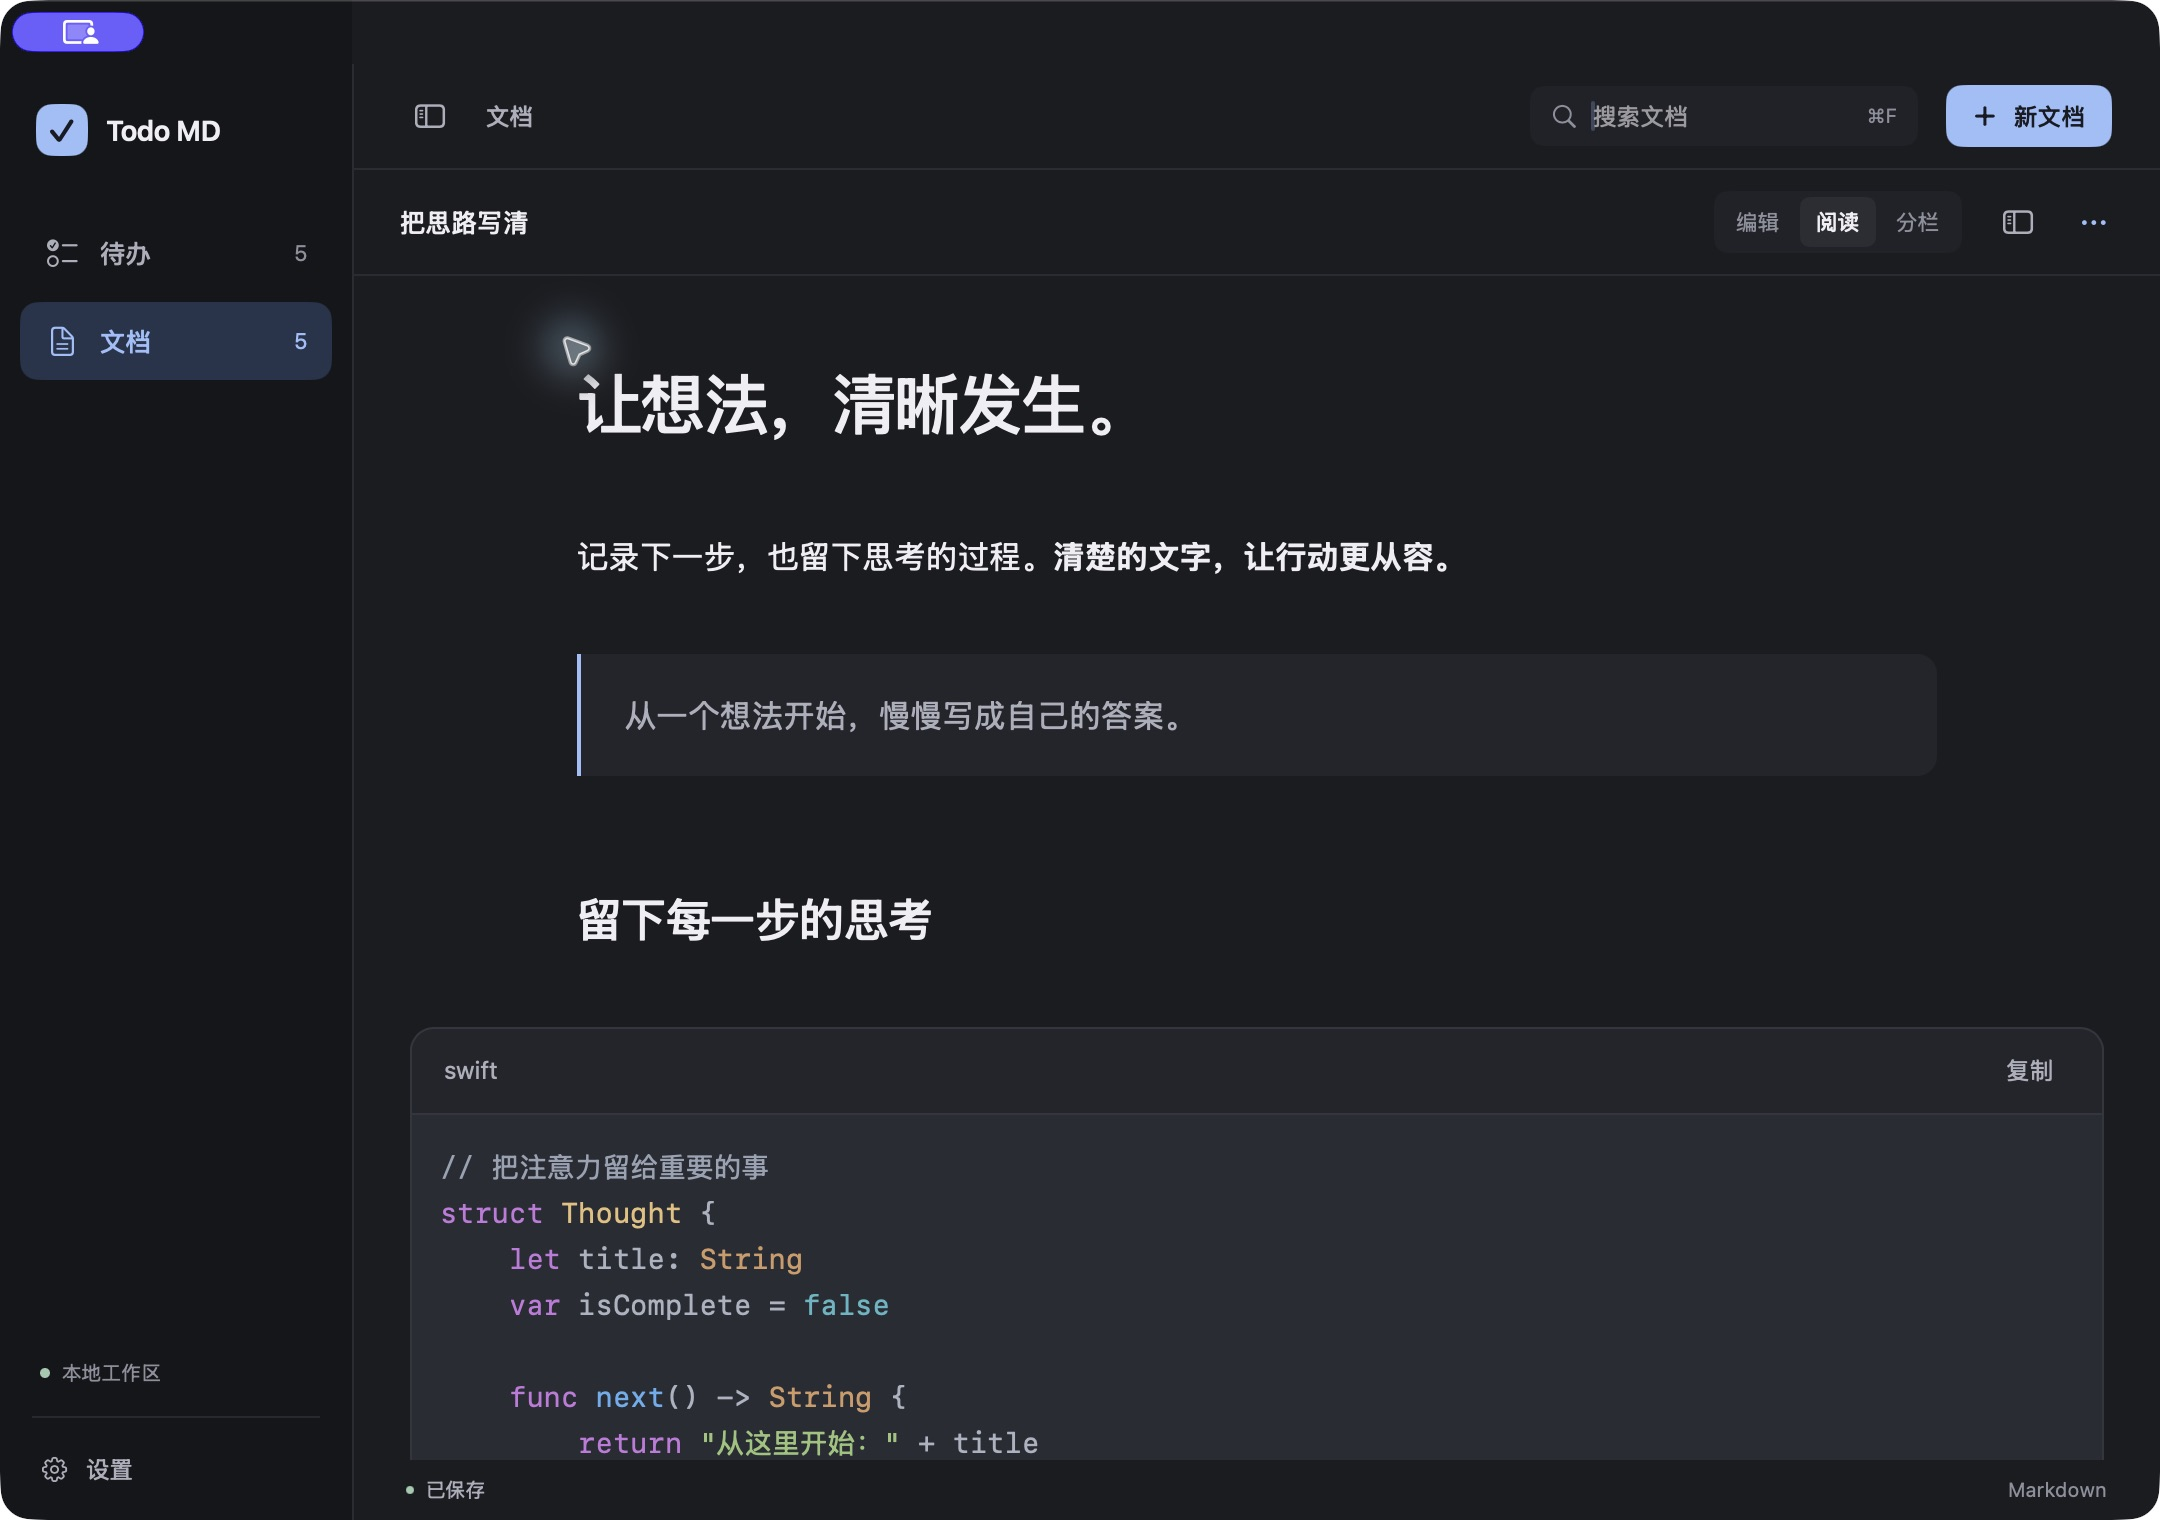
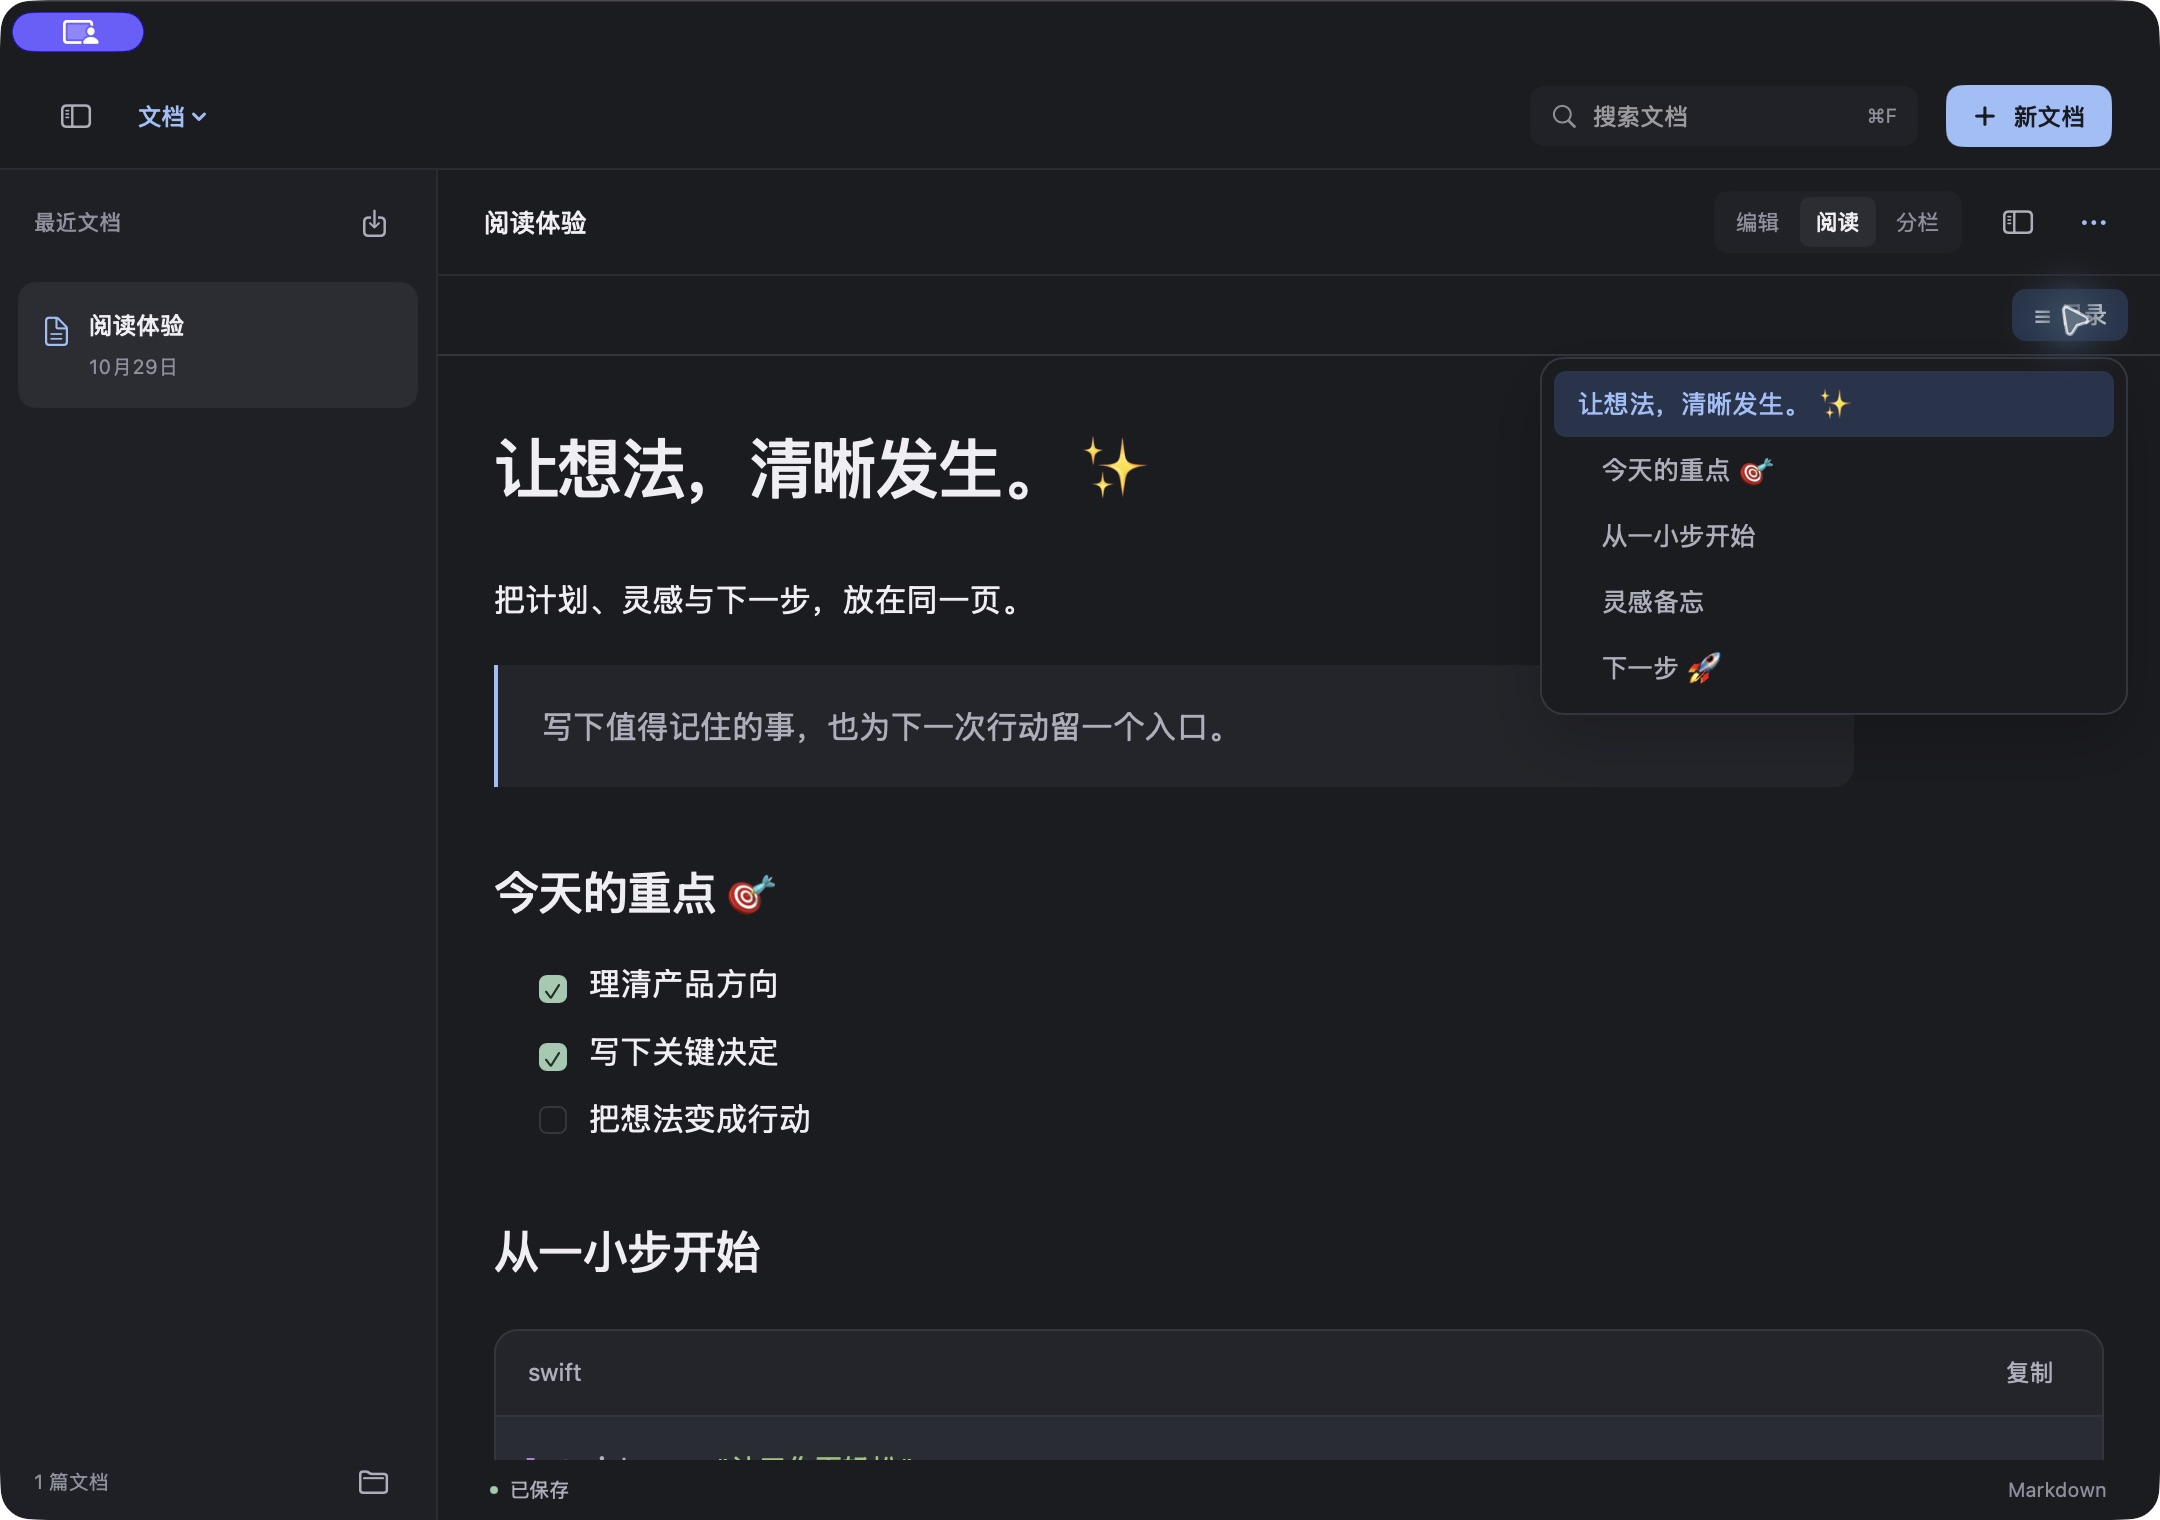
Publish Todo MD 1.2.0 reading navigation and media update

diff --git a/index.html b/index.html
@@ -15,8 +15,8 @@
   <link rel="canonical" href="https://henry-insomniac.github.io/todo-md/">
   <link rel="icon" type="image/png" href="assets/app-icon.png">
   <link rel="apple-touch-icon" href="assets/app-icon.png">
-  <link rel="stylesheet" href="style.css?v=111">
-  <script src="site.js?v=111" defer></script>
+  <link rel="stylesheet" href="style.css?v=120">
+  <script src="site.js?v=120" defer></script>
 </head>
 <body>
   <a class="skip-link" href="#main">跳转到正文</a>
@@ -29,13 +29,13 @@
     <section class="hero wrap" aria-labelledby="hero-title">
       <h1 id="hero-title">把事情记下，<br><span>把思路写清。</span></h1>
       <p class="hero-description">待办、Markdown 与轻量进度，一个 Mac 应用。</p>
-      <div class="hero-actions"><a class="button button-primary" href="https://github.com/henry-insomniac/todo-md/releases/download/v1.1.1/Todo-MD-1.1.1.dmg"><svg viewBox="0 0 24 24" width="18" height="18" fill="none" aria-hidden="true"><path d="M12 3v12m-4-4 4 4 4-4M5 16v4h14v-4" stroke="currentColor" stroke-width="1.7" stroke-linecap="round" stroke-linejoin="round"/></svg>下载 macOS 版</a></div>
-      <p class="download-meta">v1.1.1<span>·</span>macOS 14+<span>·</span>Apple Silicon / Intel</p>
+      <div class="hero-actions"><a class="button button-primary" href="https://github.com/henry-insomniac/todo-md/releases/download/v1.2.0/Todo-MD-1.2.0.dmg"><svg viewBox="0 0 24 24" width="18" height="18" fill="none" aria-hidden="true"><path d="M12 3v12m-4-4 4 4 4-4M5 16v4h14v-4" stroke="currentColor" stroke-width="1.7" stroke-linecap="round" stroke-linejoin="round"/></svg>下载 macOS 版</a></div>
+      <p class="download-meta">v1.2.0<span>·</span>macOS 14+<span>·</span>Apple Silicon / Intel</p>
       <div class="showcase" id="features">
         <div class="showcase-top"><div class="segmented" role="group" aria-label="查看应用界面"><button type="button" data-view="tasks" aria-pressed="true">待办</button><button type="button" data-view="markdown" aria-pressed="false">Markdown</button></div></div>
         <figure class="product-figure">
           <div class="window-bar" aria-hidden="true"><i></i><i></i><i></i><span>Todo MD</span></div>
-          <div class="screenshot-viewport"><picture id="hero-picture"><source media="(prefers-color-scheme: light)" srcset="assets/tasks-light-blue.png?v=111"><img id="hero-screenshot" src="assets/tasks-dark-blue.png?v=111" width="2160" height="1520" fetchpriority="high" alt="Todo MD 实际运行界面：任务列表、优先级和右侧子步骤进度。截图使用演示数据。"></picture></div>
+          <div class="screenshot-viewport"><picture id="hero-picture"><source media="(prefers-color-scheme: light)" srcset="assets/tasks-light-blue.png?v=120"><img id="hero-screenshot" src="assets/tasks-dark-blue.png?v=120" width="2160" height="1520" fetchpriority="high" alt="Todo MD 实际运行界面：任务列表、优先级和右侧子步骤进度。截图使用演示数据。"></picture></div>
         </figure>
       </div>
     </section>
@@ -43,7 +43,7 @@
       <div class="section-intro"><h2 id="workflow-title">待办与写作，<br>放在一起。</h2></div>
       <div class="workflow-list">
         <article><span class="step-number">01</span><div><h3>待办</h3><p>快速记录，设置优先级，筛选今天要做的事。</p></div><span class="step-mark" aria-hidden="true">↵</span></article>
-        <article><span class="step-number">02</span><div><h3>Markdown</h3><p>舒适排版、代码高亮，在全局设置中调成喜欢的样子。</p></div><span class="step-mark document-mark" aria-hidden="true">M↓</span></article>
+        <article><span class="step-number">02</span><div><h3>Markdown</h3><p>目录导航、代码高亮、图片与表情，让阅读更从容。</p></div><span class="step-mark document-mark" aria-hidden="true">M↓</span></article>
         <article><span class="step-number">03</span><div><h3>轻量进度</h3><p>勾选子步骤，查看完成进度，关联参考文档。</p></div><span class="step-mark" aria-hidden="true">✓</span></article>
       </div>
     </section>
@@ -51,11 +51,11 @@
       <div class="wrap">
         <div class="appearance-heading"><h2 id="appearance-title">五种主题色，<br>深浅两种外观。</h2></div>
         <div class="theme-toolbar"><div class="swatches" role="group" aria-label="应用主题色"><button type="button" data-accent="blue" aria-pressed="true" aria-label="雾蓝" title="雾蓝"><span style="--swatch:#9CBEFA"></span></button><button type="button" data-accent="violet" aria-pressed="false" aria-label="柔紫" title="柔紫"><span style="--swatch:#C7AEF6"></span></button><button type="button" data-accent="teal" aria-pressed="false" aria-label="青碧" title="青碧"><span style="--swatch:#88D3C5"></span></button><button type="button" data-accent="rose" aria-pressed="false" aria-label="玫瑰" title="玫瑰"><span style="--swatch:#F0A9C1"></span></button><button type="button" data-accent="peach" aria-pressed="false" aria-label="桃橙" title="桃橙"><span style="--swatch:#F2AD94"></span></button></div><span id="theme-name" aria-live="polite">雾蓝</span></div>
-        <div class="theme-frame"><div class="window-bar" aria-hidden="true"><i></i><i></i><i></i><span>Todo MD</span></div><div class="screenshot-viewport"><picture id="theme-picture"><source media="(prefers-color-scheme: light)" srcset="assets/tasks-light-blue.png?v=111"><img id="theme-screenshot" src="assets/tasks-dark-blue.png?v=111" width="2160" height="1520" loading="lazy" decoding="async" alt="雾蓝主题的 Todo MD 实际界面，使用演示数据。"></picture></div></div>
+        <div class="theme-frame"><div class="window-bar" aria-hidden="true"><i></i><i></i><i></i><span>Todo MD</span></div><div class="screenshot-viewport"><picture id="theme-picture"><source media="(prefers-color-scheme: light)" srcset="assets/tasks-light-blue.png?v=120"><img id="theme-screenshot" src="assets/tasks-dark-blue.png?v=120" width="2160" height="1520" loading="lazy" decoding="async" alt="雾蓝主题的 Todo MD 实际界面，使用演示数据。"></picture></div></div>
       </div>
     </section>
     <section class="local-section wrap" aria-labelledby="local-title"><div class="local-symbol" aria-hidden="true"><svg width="44" height="44" viewBox="0 0 44 44" fill="none"><rect x="8" y="19" width="28" height="21" rx="7" stroke="currentColor" stroke-width="1.5"/><path d="M14 19v-7a8 8 0 0 1 16 0v7M22 27v5" stroke="currentColor" stroke-width="1.5" stroke-linecap="round"/></svg></div><div><h2 id="local-title">本地保存，<br>离线使用。</h2><p>无需账号。文档以标准 .md 文件保存。</p></div></section>
-    <section class="download-section wrap" id="download" aria-labelledby="download-title"><div class="download-main"><img src="assets/app-icon.png" width="88" height="88" loading="lazy" alt="Todo MD 图标"><div><h2 id="download-title">Todo MD</h2><p>1.1.1</p></div></div><div class="download-side"><a class="button button-primary" href="https://github.com/henry-insomniac/todo-md/releases/download/v1.1.1/Todo-MD-1.1.1.dmg">下载 macOS 版 <span aria-hidden="true">↓</span></a><span class="verified"><svg width="14" height="14" viewBox="0 0 20 20" fill="none" aria-hidden="true"><path d="m10 2 7 3v5c0 4-7 8-7 8s-7-4-7-8V5l7-3Z" stroke="currentColor" stroke-width="1.4"/><path d="m6 10 3 3 5-5" stroke="currentColor" stroke-width="1.4" stroke-linecap="round" stroke-linejoin="round"/></svg>已签名并通过 Apple 公证</span></div></section>
+    <section class="download-section wrap" id="download" aria-labelledby="download-title"><div class="download-main"><img src="assets/app-icon.png" width="88" height="88" loading="lazy" alt="Todo MD 图标"><div><h2 id="download-title">Todo MD</h2><p>1.2.0</p></div></div><div class="download-side"><a class="button button-primary" href="https://github.com/henry-insomniac/todo-md/releases/download/v1.2.0/Todo-MD-1.2.0.dmg">下载 macOS 版 <span aria-hidden="true">↓</span></a><span class="verified"><svg width="14" height="14" viewBox="0 0 20 20" fill="none" aria-hidden="true"><path d="m10 2 7 3v5c0 4-7 8-7 8s-7-4-7-8V5l7-3Z" stroke="currentColor" stroke-width="1.4"/><path d="m6 10 3 3 5-5" stroke="currentColor" stroke-width="1.4" stroke-linecap="round" stroke-linejoin="round"/></svg>已签名并通过 Apple 公证</span></div></section>
   </main>
   <footer class="site-footer wrap"><a class="brand" href="./"><img src="assets/app-icon.png" width="30" height="30" alt=""><span>Todo MD</span></a><div><a href="https://github.com/henry-insomniac/todo-md/releases">更新记录</a><a href="https://github.com/henry-insomniac/todo-md/issues">反馈问题</a><span>© 2026 Hou yanming</span></div></footer>
 </body>

diff --git a/site.js b/site.js
@@ -10,7 +10,7 @@
   const theme = () => preference === 'light' || preference === 'dark' ? preference : systemTheme.matches ? 'dark' : 'light';
   let imageRequest = 0;
   function changeImage(id, url, description) {
-    url += "?v=111";
+    url += "?v=120";
     const img = document.getElementById(id);
     // Remove the static no-JS fallback only once the live image is available.
     const request = ++imageRequest;
